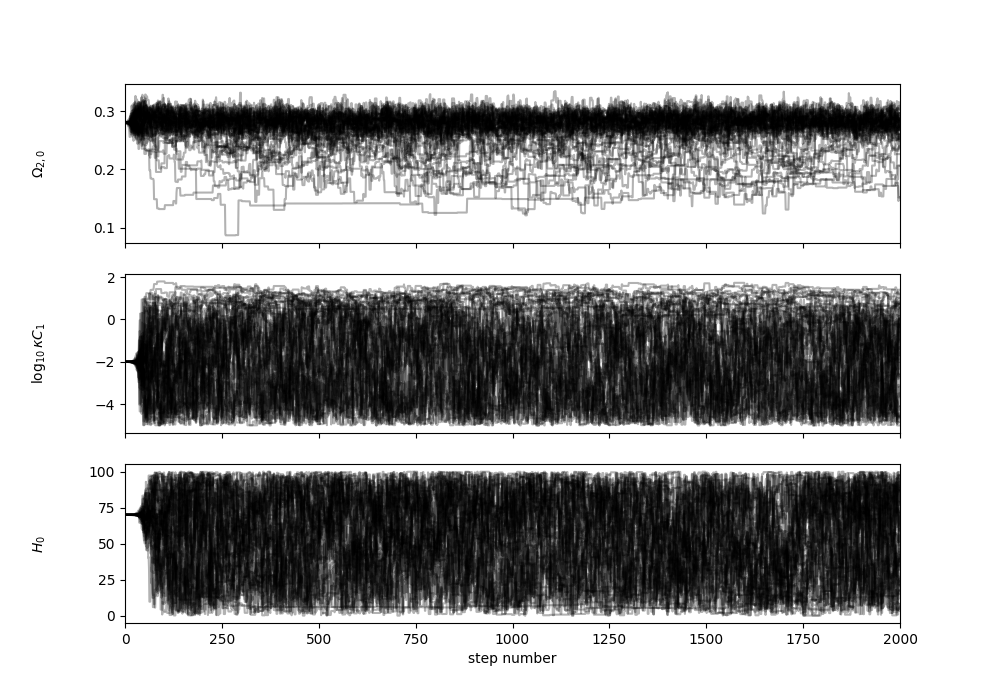
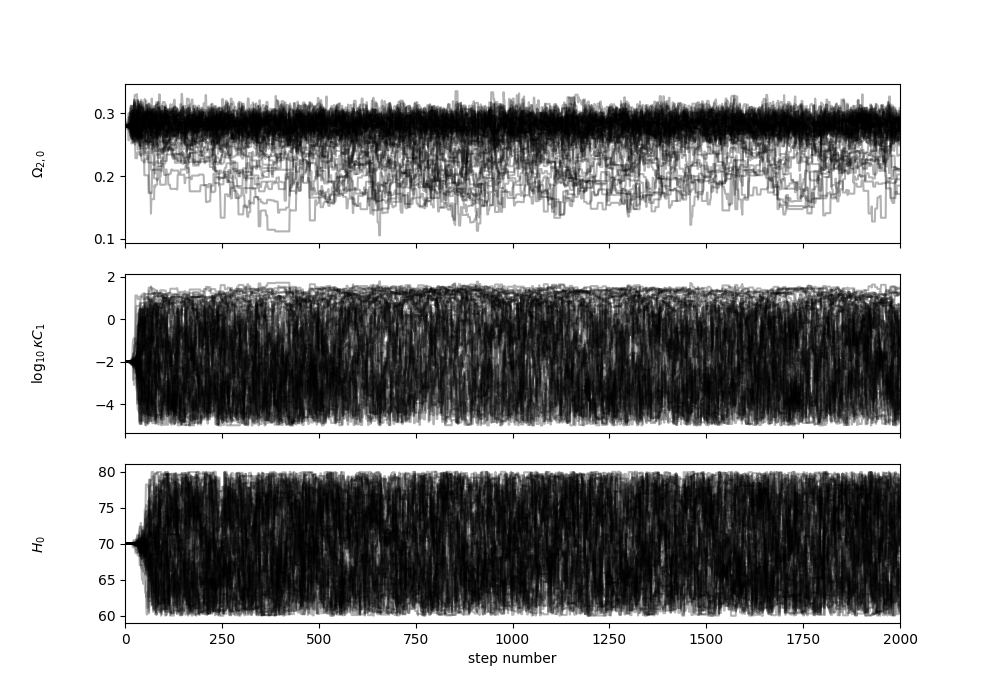
update sneia

diff --git a/SNe Ia/result.py b/SNe Ia/result.py
@@ -89,7 +89,7 @@ def lnlike(paras):
 # lnprior函数(先验概率函数)
 def lnprior(paras):
     O20, log_kC1, H0 = paras
-    if 0 < O20 < 0.5 and -5 < log_kC1 < 3 and 0 < H0 < 100:
+    if 0 < O20 < 0.5 and -5 < log_kC1 < 3 and 60 < H0 < 80:
         return 0.0
     return -np.inf
 
